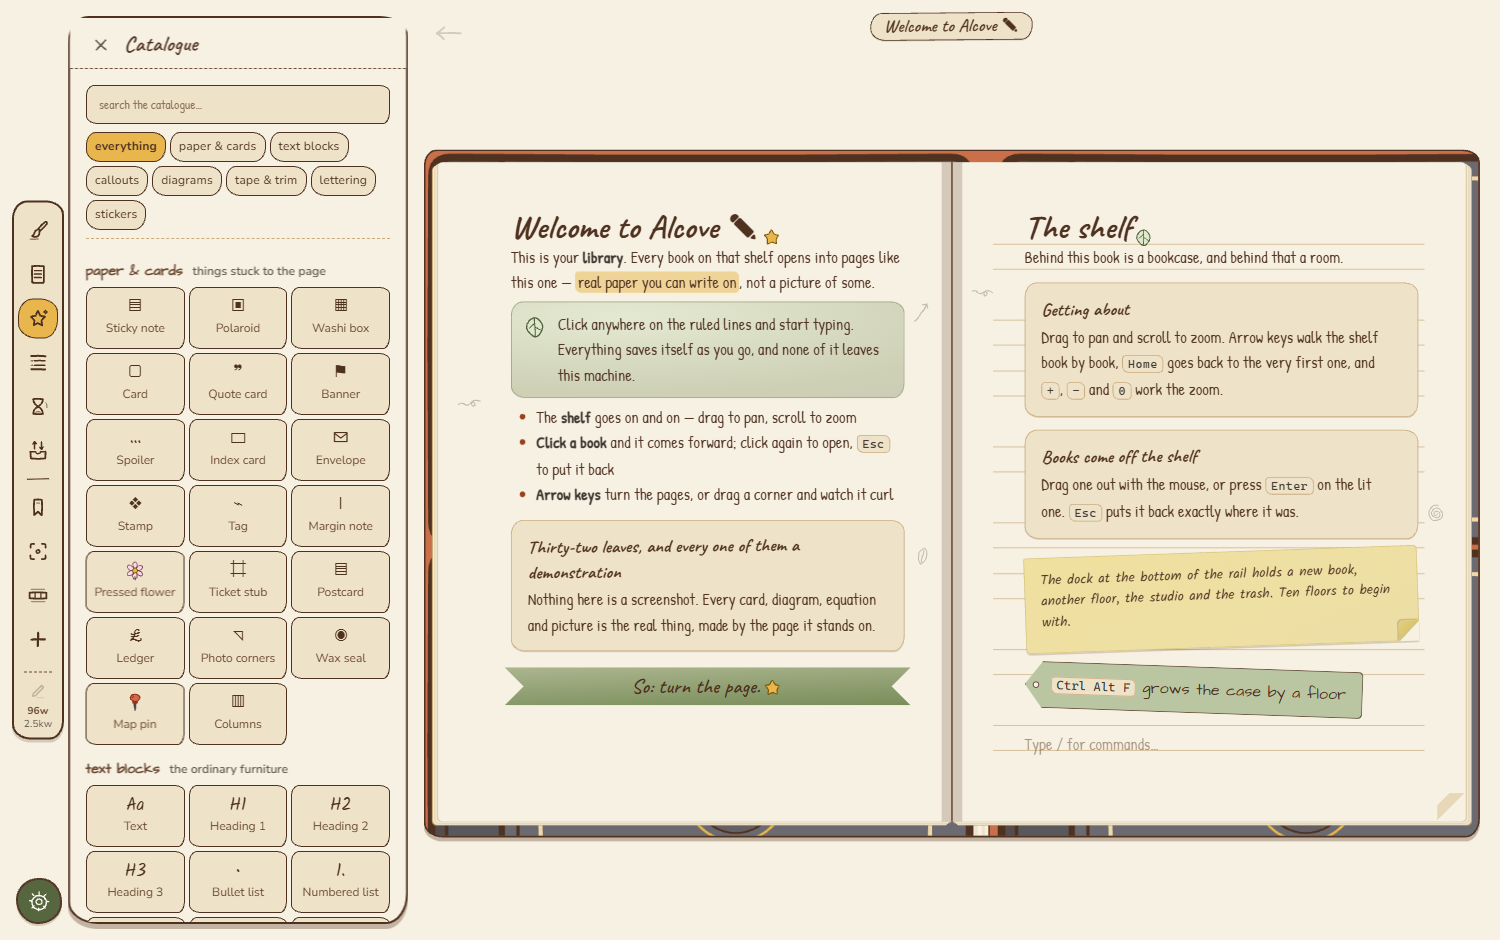
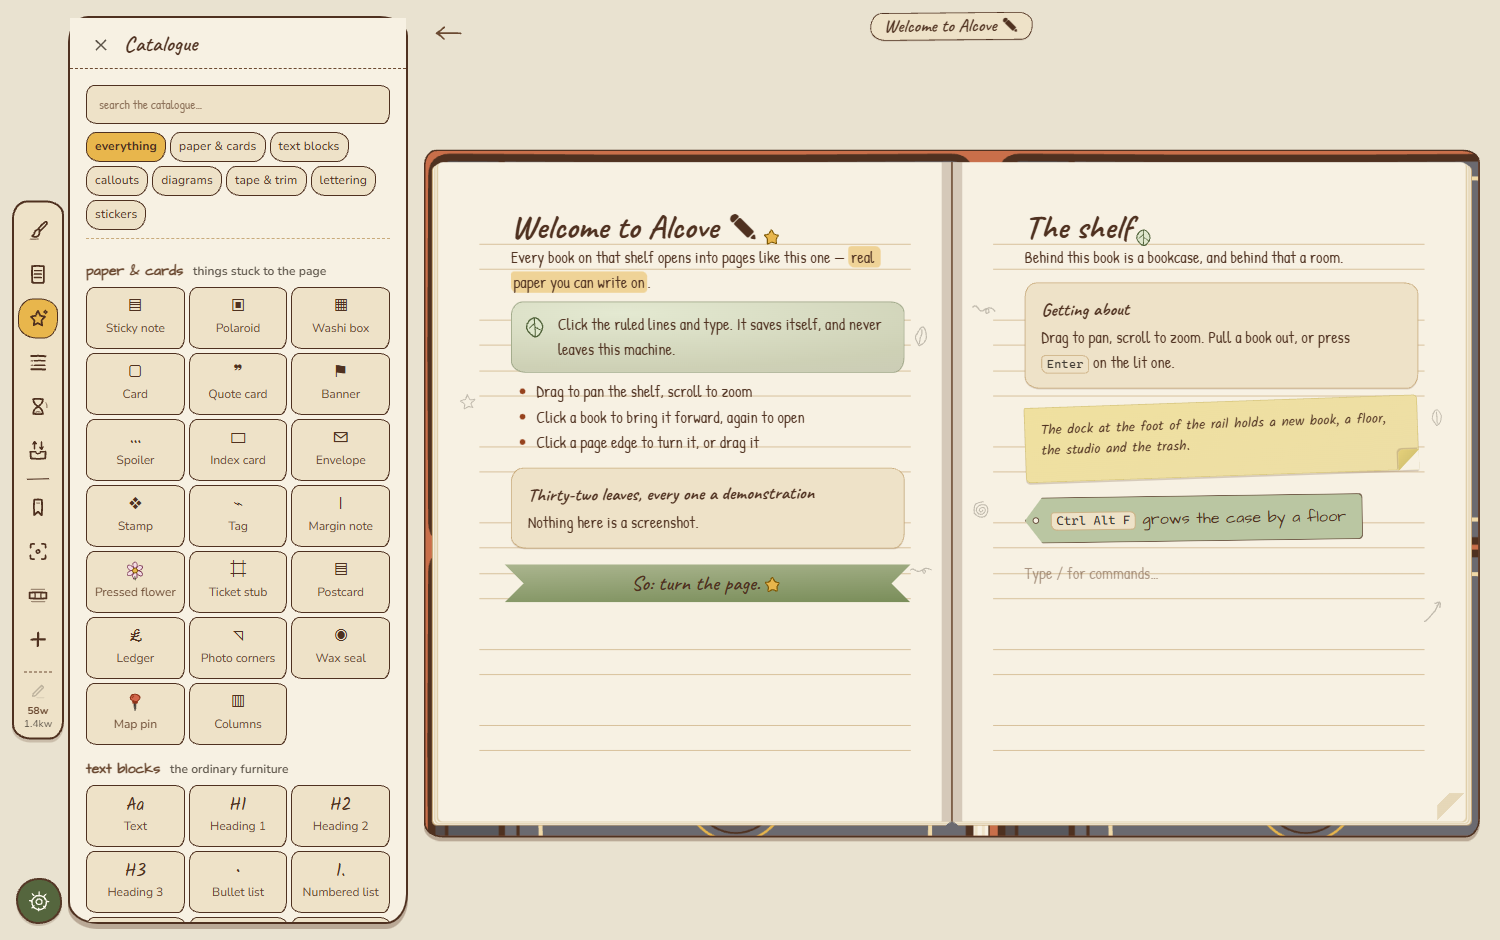
docs(readme): recapture the 0.4.0 app
Prove the atomic screenshot failure and partial-manifest paths, then capture all 24 surfaces from clean 718d14c and promote the set with a 0.4.0 manifest. Review every image at original resolution and correct six stale alt descriptions, including the current diagram spread and two-book parcel totals.

diff --git a/docs/readme/part-1-users.md b/docs/readme/part-1-users.md
@@ -147,7 +147,7 @@ Pull back and the whole case is one object — <!--f:defaultFloors-->10<!--/f-->
 floors as standard, up to <!--f:maxFloors-->60<!--/f--> when you keep pressing
 *add floor*, and as many separate bookcases as you want to build.
 
-![The same bookcase pulled all the way back to 38%, the whole of it in frame now and small against the wall: the slab cornice, then eight complete floors and the top of a ninth running off the bottom of the window. Only the top three hold books — three tight rows of colour — and the rest are ranks of empty ogee-arched recesses waiting to be filled. The gold trellis wallpaper runs away on both sides and above, gone to a fine net at this size, which is what a library with room left in it actually looks like.](img/shelf-zoomout.png)
+![The same bookcase pulled all the way back to 38%, much more of it in frame now and small against the wall: the slab cornice, then seven complete floors and the top of an eighth running off the bottom of the window. Only the top three hold books — three tight rows of colour — and the rest are ranks of empty ogee-arched recesses waiting to be filled. The gold trellis wallpaper runs away on both sides and above, gone to a fine net at this size, which is what a library with room left in it actually looks like.](img/shelf-zoomout.png)
 
 ### A book opens as a spread, and turns like a book
 
@@ -220,7 +220,7 @@ at the top) flips it into full-text search across every page in every bookcase.
 Activating a search result opens the book, turns to the page and pulses the
 match so you can see where it was.
 
-![The quick switcher open over a greyed-out spread: a cream sheet with a small ✕ in the corner, "go to" (selected) and "search text" tabs, the prompt "jump to a book or heading… (&gt; to search text)", and a list of books each tagged "book" down the right — Winter Notes lit at the top, then Hill Walks, Bookbinding, Frost Dates, Constellations, Woodcuts, Fermenting, Rope Work, Birds, Tide Tables and Ferns running off the bottom — over a footer of key hints: ↑↓ move, enter open, tab mode, esc close.](img/quickswitch.png)
+![The quick switcher open over a greyed-out spread: a cream sheet with a small ✕ in the corner, "go to" (selected) and "search text" tabs, the prompt "jump to a book or heading… (&gt; to search text)", and a list of books each tagged "book" down the right — Winter Notes lit at the top, then Hill Walks, Bookbinding, Frost Dates, Woodcuts, Constellations, Fermenting, Rope Work, Birds, Tide Tables and Ferns running off the bottom — over a footer of key hints: ↑↓ move, enter open, tab mode, esc close.](img/quickswitch.png)
 
 Search deliberately ignores which bookcase you are standing in front of. You
 open it because something you wrote is somewhere, and the one thing you reliably
@@ -288,7 +288,7 @@ alone edge to edge. There is a zoom on top of it, and it is a transform rather
 than a bigger box — deliberately, because growing the leaf would change how much
 fits on a page and repaginate your book behind your back.
 
-![The spread on the first rung of focus mode. The icon rail and the word count have gone and the spread has grown into the room they were using; the book itself is still there, its boards showing at the edges. The only chrome left is in the top-left corner: "✕ leave focus  Esc", and under it the ladder itself as three tabs — "the book" (lit), "the pages", "one page" — with a 100% zoom control and a line of key hints beneath.](img/focus.png)
+![The spread on the first rung of focus mode. The icon rail and the word count have gone and the spread has grown into the room they were using; the book itself is still there, its boards showing at the edges. The focus controls sit in the top-left corner: "✕ leave focus  Esc", and under it the ladder itself as three tabs — "the book" (lit), "the pages", "one page" — with a 100% zoom control and a line of key hints beneath. A small settings seal remains in the bottom-left corner.](img/focus.png)
 
 ### Maths, without a webfont
 
@@ -313,7 +313,7 @@ slash menu with a small worked example already in it, and each is edited as a
 few lines of text — the layout algorithms and the hand-drawn SVG renderers are
 in [`src/diagrams/`](../../src/diagrams/).
 
-![The Welcome book open where its diagram chapter begins, and every mark on the right-hand page is drawn by the page rather than pasted onto it. That page opens "Indentation alone makes a `tree`: two spaces to a level, `|` for a note", and under the sentence stands the tree it describes — Alcove branching to "A library" and "A book", the library on to "Bookcases · one per subject" and "Floors", the book on to "Pages · this thing you are reading" and "Ribbons" — every box and every join wobbled the way a pen wobbles. Below it a tan card headed "Five fences, no library" names all five in their own key caps — tree, mindmap, graph, flowchart and timeline — and says every line is drawn by hand. The left-hand page is the tail of the chapter before: a polaroid of a cat in a box in one column with a paragraph about columns in the other, a card headed "How it is written" showing `::: columns`, `::: col` and a plain `:::`, a margin note reading "A column may hold anything a page may hold, including more columns", and then this chapter's own title on the last ruled line — "Diagrams, drawn by hand".](img/diagrams.png)
+![The Welcome book open where its diagram chapter begins, every box and join drawn with a pen wobble. The left page is headed "Diagrams, drawn by hand" and opens "Indentation alone makes a `tree`: two spaces to a level, `|` for a note". Under it stands the tree it describes — Alcove branching to "A library" and "A book", the library on to "Bookcases · one per subject" and "Floors", the book on to "Pages · this thing you are reading" and "Ribbons". A tan card below names the five fences in italic handwriting — tree, mindmap, graph, flowchart, timeline — then says "Five fences, no library: every line is drawn by hand." The right page is headed "Thrown outward" and explains that a `mindmap` reads like a `tree` but lays its branches around the middle. Its mindmap fans out from Bookbinding through Tools, Sewing and Covering to Bone folder, Kettle stitch, Long stitch, Quarter leather and Cloth, with a banner at the foot reading "Swap the word and it redraws."](img/diagrams.png)
 
 ### Pictures and links
 
@@ -597,7 +597,7 @@ sorts first when *Settings → Library & shelf* is set to sort by favourites.
 
 Every interaction has a sound, and the whole set can be re-voiced.
 
-![The settings sheet open down the right-hand edge, scrolled to its Sound section, over three full floors of the bookcase at 80%. Under the heading: a "sound set" row reading "House — the set as recorded — warm, even, nothing pushed" over seven chips, House ticked, then Loose Leaf, Reading Room, Brass Bell, Drafting Table, Quiet Hours and Paper Birds — one per character — with "more sound sets · 21 more, in 7 characters · show all 28" beside a button, and "add your own set · your sound files — name each one after the cue it replaces" beside "choose files…". Then five sliders, each with its own percentage: master volume 80%, little clicks & pops 70%, page sounds 80%, bookshelf sounds 70%, ambient bed 35%. Then "mute everything" (off) and "play ambience — run the chosen soundscape underneath" (on), a "soundscape" row of eleven chips with fireplace ticked — rain, storm, fireplace, crickets, night, wind, stream, forest, shore, cafe, none — and below them "typing sounds — soft pencil scratches as you type" and the top of "hourly chime" running off the bottom edge.](img/settings.png)
+![The settings sheet open down the right-hand edge, scrolled to its Sound section, over the bookcase at 80% — one book-filled floor is visible near the top and the lower floors are empty. Under the heading: a "sound set" row reading "House — the set as recorded — warm, even, nothing pushed" over seven chips, House ticked, then Loose Leaf, Reading Room, Brass Bell, Drafting Table, Quiet Hours and Paper Birds — one per character — with "more sound sets · 21 more, in 7 characters · show all 28" beside a button, and "add your own set · your sound files — name each one after the cue it replaces" beside "choose files…". Then five sliders, each with its own percentage: master volume 80%, little clicks & pops 70%, page sounds 80%, bookshelf sounds 70%, ambient bed 35%. Then "mute everything" (off) and "play ambience — run the chosen soundscape underneath" (on), a "soundscape" row of eleven chips with fireplace ticked — rain, storm, fireplace, crickets, night, wind, stream, forest, shore, cafe, none — and below them "typing sounds — soft pencil scratches as you type" and the top of "hourly chime" running off the bottom edge.](img/settings.png)
 
 A **sound set** is a named character every cue in the app is heard through — the
 button, the panel, the checkbox, the page turn, the book coming off the shelf,
@@ -689,7 +689,7 @@ a hand-edited ZIP cannot write outside the two places it is allowed to.
 The **parcel desk** — the rail's *In and out* sheet, or `Ctrl+Shift+E` — packs
 books into a single `.nbk` file. You pick the scope and what rides along.
 
-![The parcel desk over an open book: a cream sheet headed "Send part of your library out", with a narrow tab column down its left edge — send out (lit), bring in, undo book. Under "What goes in the parcel" a row of scope chips — whole library (lit), floor 1, floor 2, floor 3, this book, pick by hand — over a flat list of every book with a checkbox and a page count each: Field Notes, Kanji Practice, Watercolour Basics, then "Welcome to Alcove ✎ · 32 pages" ticked, then Cell Biology, Recipes and a dozen more running off the bottom at 0 pages. On the right, "How to pack it": bring the pictures, keep covers & spines, include the library look, perfect fidelity — three of the four ticked — then written as Notebook Script or plain Markdown, and split as one file per page or one file per book. Under that a hatched parcel card, "In the parcel — 1 book · 32 pages · about 140 KB", with a drawn present on it and a line reading "saves as alcove-library.nbk". Close and Export sit at the foot.](img/transfer.png)
+![The parcel desk over an open book: a cream sheet headed "Send part of your library out", with a narrow tab column down its left edge — send out (lit), bring in, undo book. Under "What goes in the parcel" a row of scope chips — whole library (lit), floor 1, floor 2, floor 3, this book, pick by hand — over a flat list with a checkbox and page count for every book. Field Notes is ticked at 4 pages; Kanji Practice and Watercolour Basics are empty; "Welcome to Alcove ✎" is ticked at 32 pages; eleven more books through First Aid follow at 0 pages. On the right, "How to pack it": bring the pictures, keep covers & spines, include the library look, perfect fidelity — three of the four ticked — then written as Notebook Script or plain Markdown, and split as one file per page or one file per book. Under that a hatched parcel card reads "In the parcel — 2 books · 36 pages · about 115 KB", lists Field Notes and Welcome separately, carries a drawn present, and says "saves as alcove-library.nbk". Close and Export sit at the foot.](img/transfer.png)
 
 Inside, a bundle is a plain ZIP: a manifest with a checksum, one Notebook Script
 file per page, the lossless JSON beside it, the assets, and a snapshot of the

diff --git a/TODO.md b/TODO.md
@@ -29,10 +29,10 @@ tree is in right now, what's uncommitted, and what to check first.
    71/71 distinct frames and `GATE ALIVE`; the comparison reached 63/64 exact,
    the remaining back-tab timer race was pinned, and that surface then repeated
    at 0px twice. Representative baselines were inspected at original size.
-3. `:1181` Re-capture the 24 README shots — `--only=hero` first to watch the
-   new atomic-commit machinery work, then the full run, then re-read every alt
-   string against the new pictures (a gate exists for this now, but only for
-   welcome-book prose shots).
+3. [x] `:1181` Re-captured all 24 README shots from clean `718d14c`. The broken
+   hero run left the set byte-identical; the partial hero kept set identity at
+   0.3.0; the full run promoted 24 pictures + manifest at once as Alcove 0.4.0.
+   Every alt was visually checked and six stale descriptions were corrected.
 4. `npm run readme:build`, then re-check the 0.4.0 release-notes arithmetic
    against whatever the numbers land on (they've moved twice already).
 5. `:1223` Re-render the demo, once, last. Check it against the two open
@@ -1216,7 +1216,7 @@ were confirmed and 18 refuted. Frames are on disk under `qa/demo/frames/`.
         - **Anyone holding a clone must re-clone.** For a repo whose only
           remote copy is the owner's, that is nobody.
 
-- [ ] **Re-capture all 24 README shots, once, after the app settles.** A run
+- [x] **Re-capture all 24 README shots, once, after the app settles.** A run
       against 0.4 died at the book-studio shot — `openRailPanel` waited 120s for
       "Customize this book" on a dev server that three workflows were editing
       underneath it. Seven shots had been rewritten by then, so the partial set
@@ -1224,14 +1224,12 @@ were confirmed and 18 refuted. Frames are on disk under `qa/demo/frames/`.
       script is that the pictures cannot drift apart, and a set where seven
       frames show a ruled first page and sixteen do not is exactly that drift.
 
-      `tests/readme.test.ts` currently fails on the shot manifest, correctly —
-      it records app 0.3.0 against a tree that says 0.4.0, and the freshness
-      gate is doing its job. Do NOT paper over it by editing the manifest; it
-      goes green when the shots are re-taken.
+      Before the recapture, `tests/readme.test.ts` failed on the shot manifest,
+      correctly: it recorded app 0.3.0 against a tree that said 0.4.0. The
+      freshness and Welcome-prose gates are green on the real 0.4.0 set now.
 
-      Re-run when nothing else is writing to `src/`, and check the rail button
-      failure was only that — the timeout may have been HMR mid-edit, or it may
-      be real.
+      The quiet-tree rerun confirmed the rail-button failure was HMR
+      contamination: book studio and every other step passed first time.
 
       The script survives a dead run now (`b5c3828`): staging directory, atomic
       commit of the whole set, two retries per step behind a reload. **Do one
@@ -1257,6 +1255,14 @@ were confirmed and 18 refuted. Frames are on disk under `qa/demo/frames/`.
       the ones showing welcome-book prose: `spread`, `page-turn`, `diagrams`,
       `focus`, `rail`, `slash`, and the page count in `transfer` (still 32, but
       check).
+
+      Completed 2026-08-06 from clean `718d14c`: the sabotage failed three
+      times and printed `NOTHING WAS COMMITTED`; the partial hero preserved
+      the old 0.3.0 set identity; the full run promoted 25 files only after all
+      24 shots passed first time and stamped 0.4.0 with `dirty: false`.
+      Original-resolution review found and corrected six stale alts (zoomed
+      floor count, quick-switch order, focus chrome, both diagram pages, the
+      occupied shelf behind Sound settings, and the two-book parcel totals).
 
 - [ ] **Re-render the demo ONE more time, last.** The shipped `demo.webp` was
       rendered before two changes that are visible in it: the Welcome book's

diff --git a/HANDOFF.md b/HANDOFF.md
@@ -58,7 +58,9 @@ rather than treating a stale-but-present bitmap as ready.
 In order, and the order matters: (1) finish/verify the in-flight flip diff
 (done), (2) `npm run visual` full matrix with a live sabotage gate (done: gate
 reported MOVE and the matrix reached 63/64 exact before the last timer race was
-fixed; that surface then repeated 0px twice), (3) re-capture the 24 README shots, (4)
+fixed; that surface then repeated 0px twice), (3) re-capture the 24 README shots
+(done: atomic failure/partial guards proved, full clean 0.4.0 set captured and
+every alt visually checked), (4)
 `npm run readme:build` + re-check the release-notes arithmetic, (5) re-render
 the demo once, last, (6) run `scripts/shrink-history.mjs --yes` (already
 rehearsed safe on a throwaway clone — 1.4GB → 318MB, GO), `--remap`, force-push
